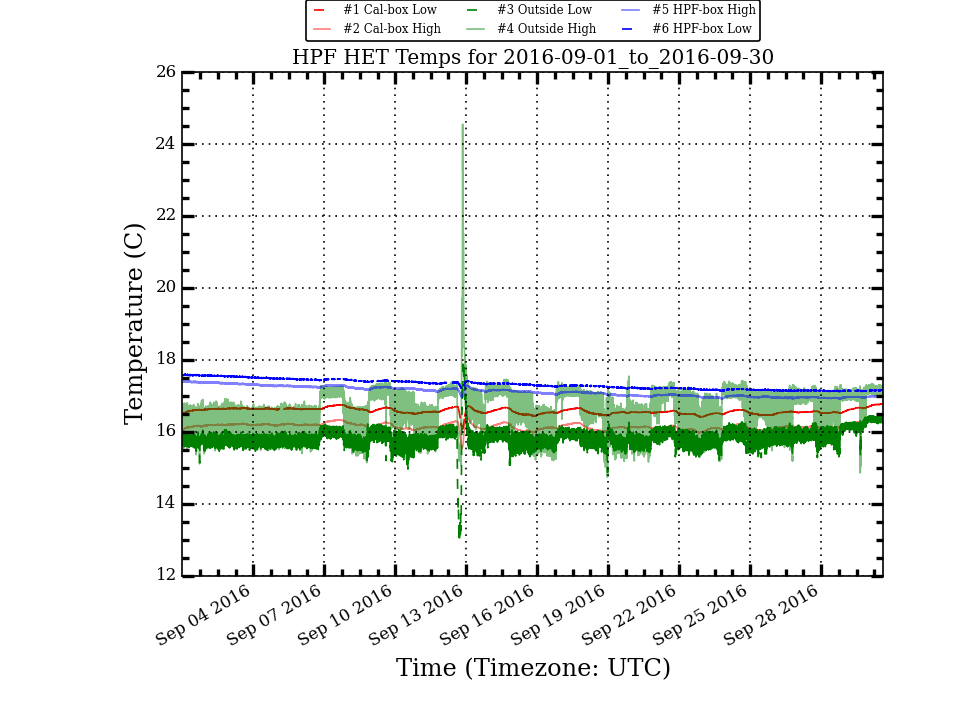
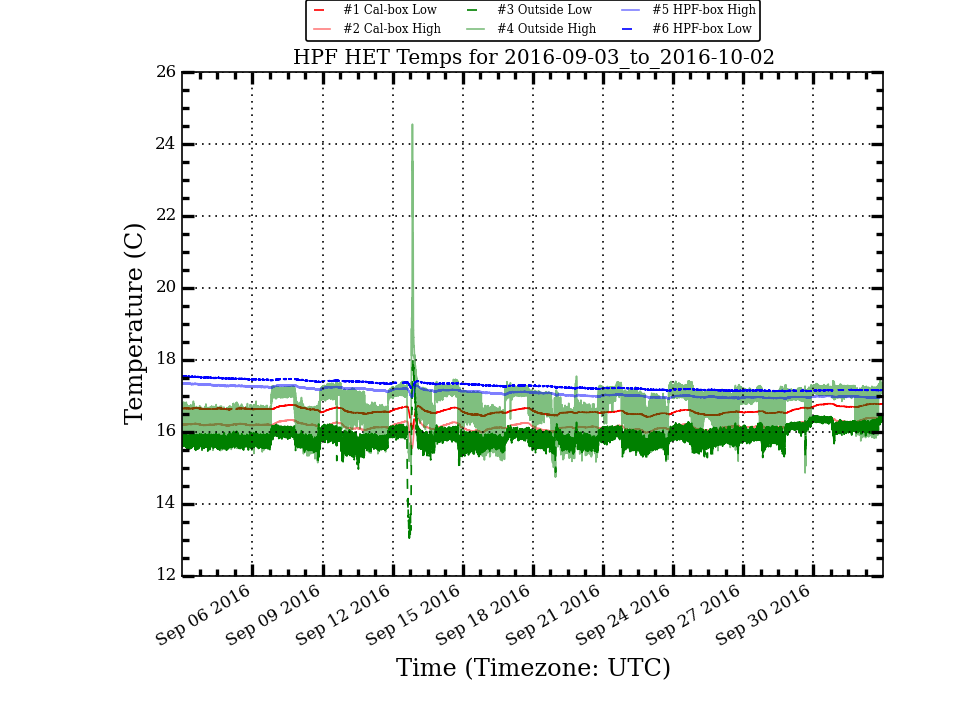
Update HPF Temp Plots

Changed region(s): [[0.1875, 0.1833, 0.9375, 0.9167], [0.3125, 0.0611, 0.9062, 0.1222], [0.25, 0.8556, 0.2812, 0.8861]]

diff --git a/research/hpf_temps/plots/LakeShoreLogTotal_week_stats.html b/research/hpf_temps/plots/LakeShoreLogTotal_week_stats.html
@@ -10,56 +10,56 @@
  </TR>
  <TR>
   <TD>Cal_Low</TD>
-  <TD>16.578</TD>
-  <TD>0.077</TD>
-  <TD>16.555</TD>
-  <TD>16.786</TD>
-  <TD>16.466</TD>
-  <TD>0.320</TD>
+  <TD>16.646</TD>
+  <TD>0.096</TD>
+  <TD>16.659</TD>
+  <TD>16.787</TD>
+  <TD>16.487</TD>
+  <TD>0.300</TD>
  </TR>
  <TR>
   <TD>Cal_High</TD>
-  <TD>16.166</TD>
-  <TD>0.088</TD>
-  <TD>16.145</TD>
-  <TD>16.395</TD>
-  <TD>16.022</TD>
-  <TD>0.373</TD>
+  <TD>16.239</TD>
+  <TD>0.102</TD>
+  <TD>16.252</TD>
+  <TD>16.401</TD>
+  <TD>16.057</TD>
+  <TD>0.344</TD>
  </TR>
  <TR>
   <TD>Out_Low</TD>
-  <TD>15.985</TD>
-  <TD>0.222</TD>
-  <TD>15.988</TD>
-  <TD>16.457</TD>
+  <TD>16.082</TD>
+  <TD>0.208</TD>
+  <TD>16.099</TD>
+  <TD>16.507</TD>
   <TD>15.285</TD>
-  <TD>1.172</TD>
+  <TD>1.222</TD>
  </TR>
  <TR>
   <TD>Out_High</TD>
-  <TD>16.869</TD>
-  <TD>0.363</TD>
-  <TD>16.997</TD>
-  <TD>17.419</TD>
+  <TD>16.897</TD>
+  <TD>0.361</TD>
+  <TD>17.032</TD>
+  <TD>17.436</TD>
   <TD>14.864</TD>
-  <TD>2.555</TD>
+  <TD>2.572</TD>
  </TR>
  <TR>
   <TD>HPF_High</TD>
-  <TD>16.969</TD>
-  <TD>0.020</TD>
-  <TD>16.969</TD>
-  <TD>17.018</TD>
+  <TD>16.967</TD>
+  <TD>0.017</TD>
+  <TD>16.968</TD>
+  <TD>17.001</TD>
   <TD>16.924</TD>
-  <TD>0.094</TD>
+  <TD>0.077</TD>
  </TR>
  <TR>
   <TD>HPF_Low</TD>
-  <TD>17.157</TD>
-  <TD>0.016</TD>
   <TD>17.153</TD>
-  <TD>17.206</TD>
+  <TD>0.010</TD>
+  <TD>17.154</TD>
+  <TD>17.178</TD>
   <TD>17.125</TD>
-  <TD>0.081</TD>
+  <TD>0.053</TD>
  </TR>
 </TABLE>

diff --git a/research/hpf_temps/plots/LakeShoreLogTotal_month_stats.html b/research/hpf_temps/plots/LakeShoreLogTotal_month_stats.html
@@ -10,56 +10,56 @@
  </TR>
  <TR>
   <TD>Cal_Low</TD>
-  <TD>16.583</TD>
-  <TD>0.078</TD>
-  <TD>16.572</TD>
-  <TD>16.786</TD>
+  <TD>16.594</TD>
+  <TD>0.089</TD>
+  <TD>16.577</TD>
+  <TD>16.787</TD>
   <TD>16.091</TD>
-  <TD>0.695</TD>
+  <TD>0.696</TD>
  </TR>
  <TR>
   <TD>Cal_High</TD>
-  <TD>16.157</TD>
-  <TD>0.086</TD>
-  <TD>16.150</TD>
+  <TD>16.171</TD>
+  <TD>0.099</TD>
+  <TD>16.159</TD>
   <TD>16.408</TD>
   <TD>15.553</TD>
   <TD>0.855</TD>
  </TR>
  <TR>
   <TD>Out_Low</TD>
-  <TD>15.841</TD>
-  <TD>0.284</TD>
-  <TD>15.839</TD>
+  <TD>15.872</TD>
+  <TD>0.297</TD>
+  <TD>15.867</TD>
   <TD>17.976</TD>
   <TD>12.994</TD>
   <TD>4.982</TD>
  </TR>
  <TR>
   <TD>Out_High</TD>
-  <TD>16.638</TD>
-  <TD>0.555</TD>
-  <TD>16.678</TD>
+  <TD>16.685</TD>
+  <TD>0.552</TD>
+  <TD>16.800</TD>
   <TD>24.550</TD>
   <TD>14.748</TD>
   <TD>9.802</TD>
  </TR>
  <TR>
   <TD>HPF_High</TD>
-  <TD>17.125</TD>
-  <TD>0.137</TD>
-  <TD>17.114</TD>
-  <TD>17.418</TD>
+  <TD>17.097</TD>
+  <TD>0.124</TD>
+  <TD>17.074</TD>
+  <TD>17.368</TD>
   <TD>16.923</TD>
-  <TD>0.495</TD>
+  <TD>0.445</TD>
  </TR>
  <TR>
   <TD>HPF_Low</TD>
-  <TD>17.318</TD>
-  <TD>0.136</TD>
-  <TD>17.297</TD>
-  <TD>17.603</TD>
+  <TD>17.289</TD>
+  <TD>0.123</TD>
+  <TD>17.273</TD>
+  <TD>17.563</TD>
   <TD>17.125</TD>
-  <TD>0.478</TD>
+  <TD>0.438</TD>
  </TR>
 </TABLE>
